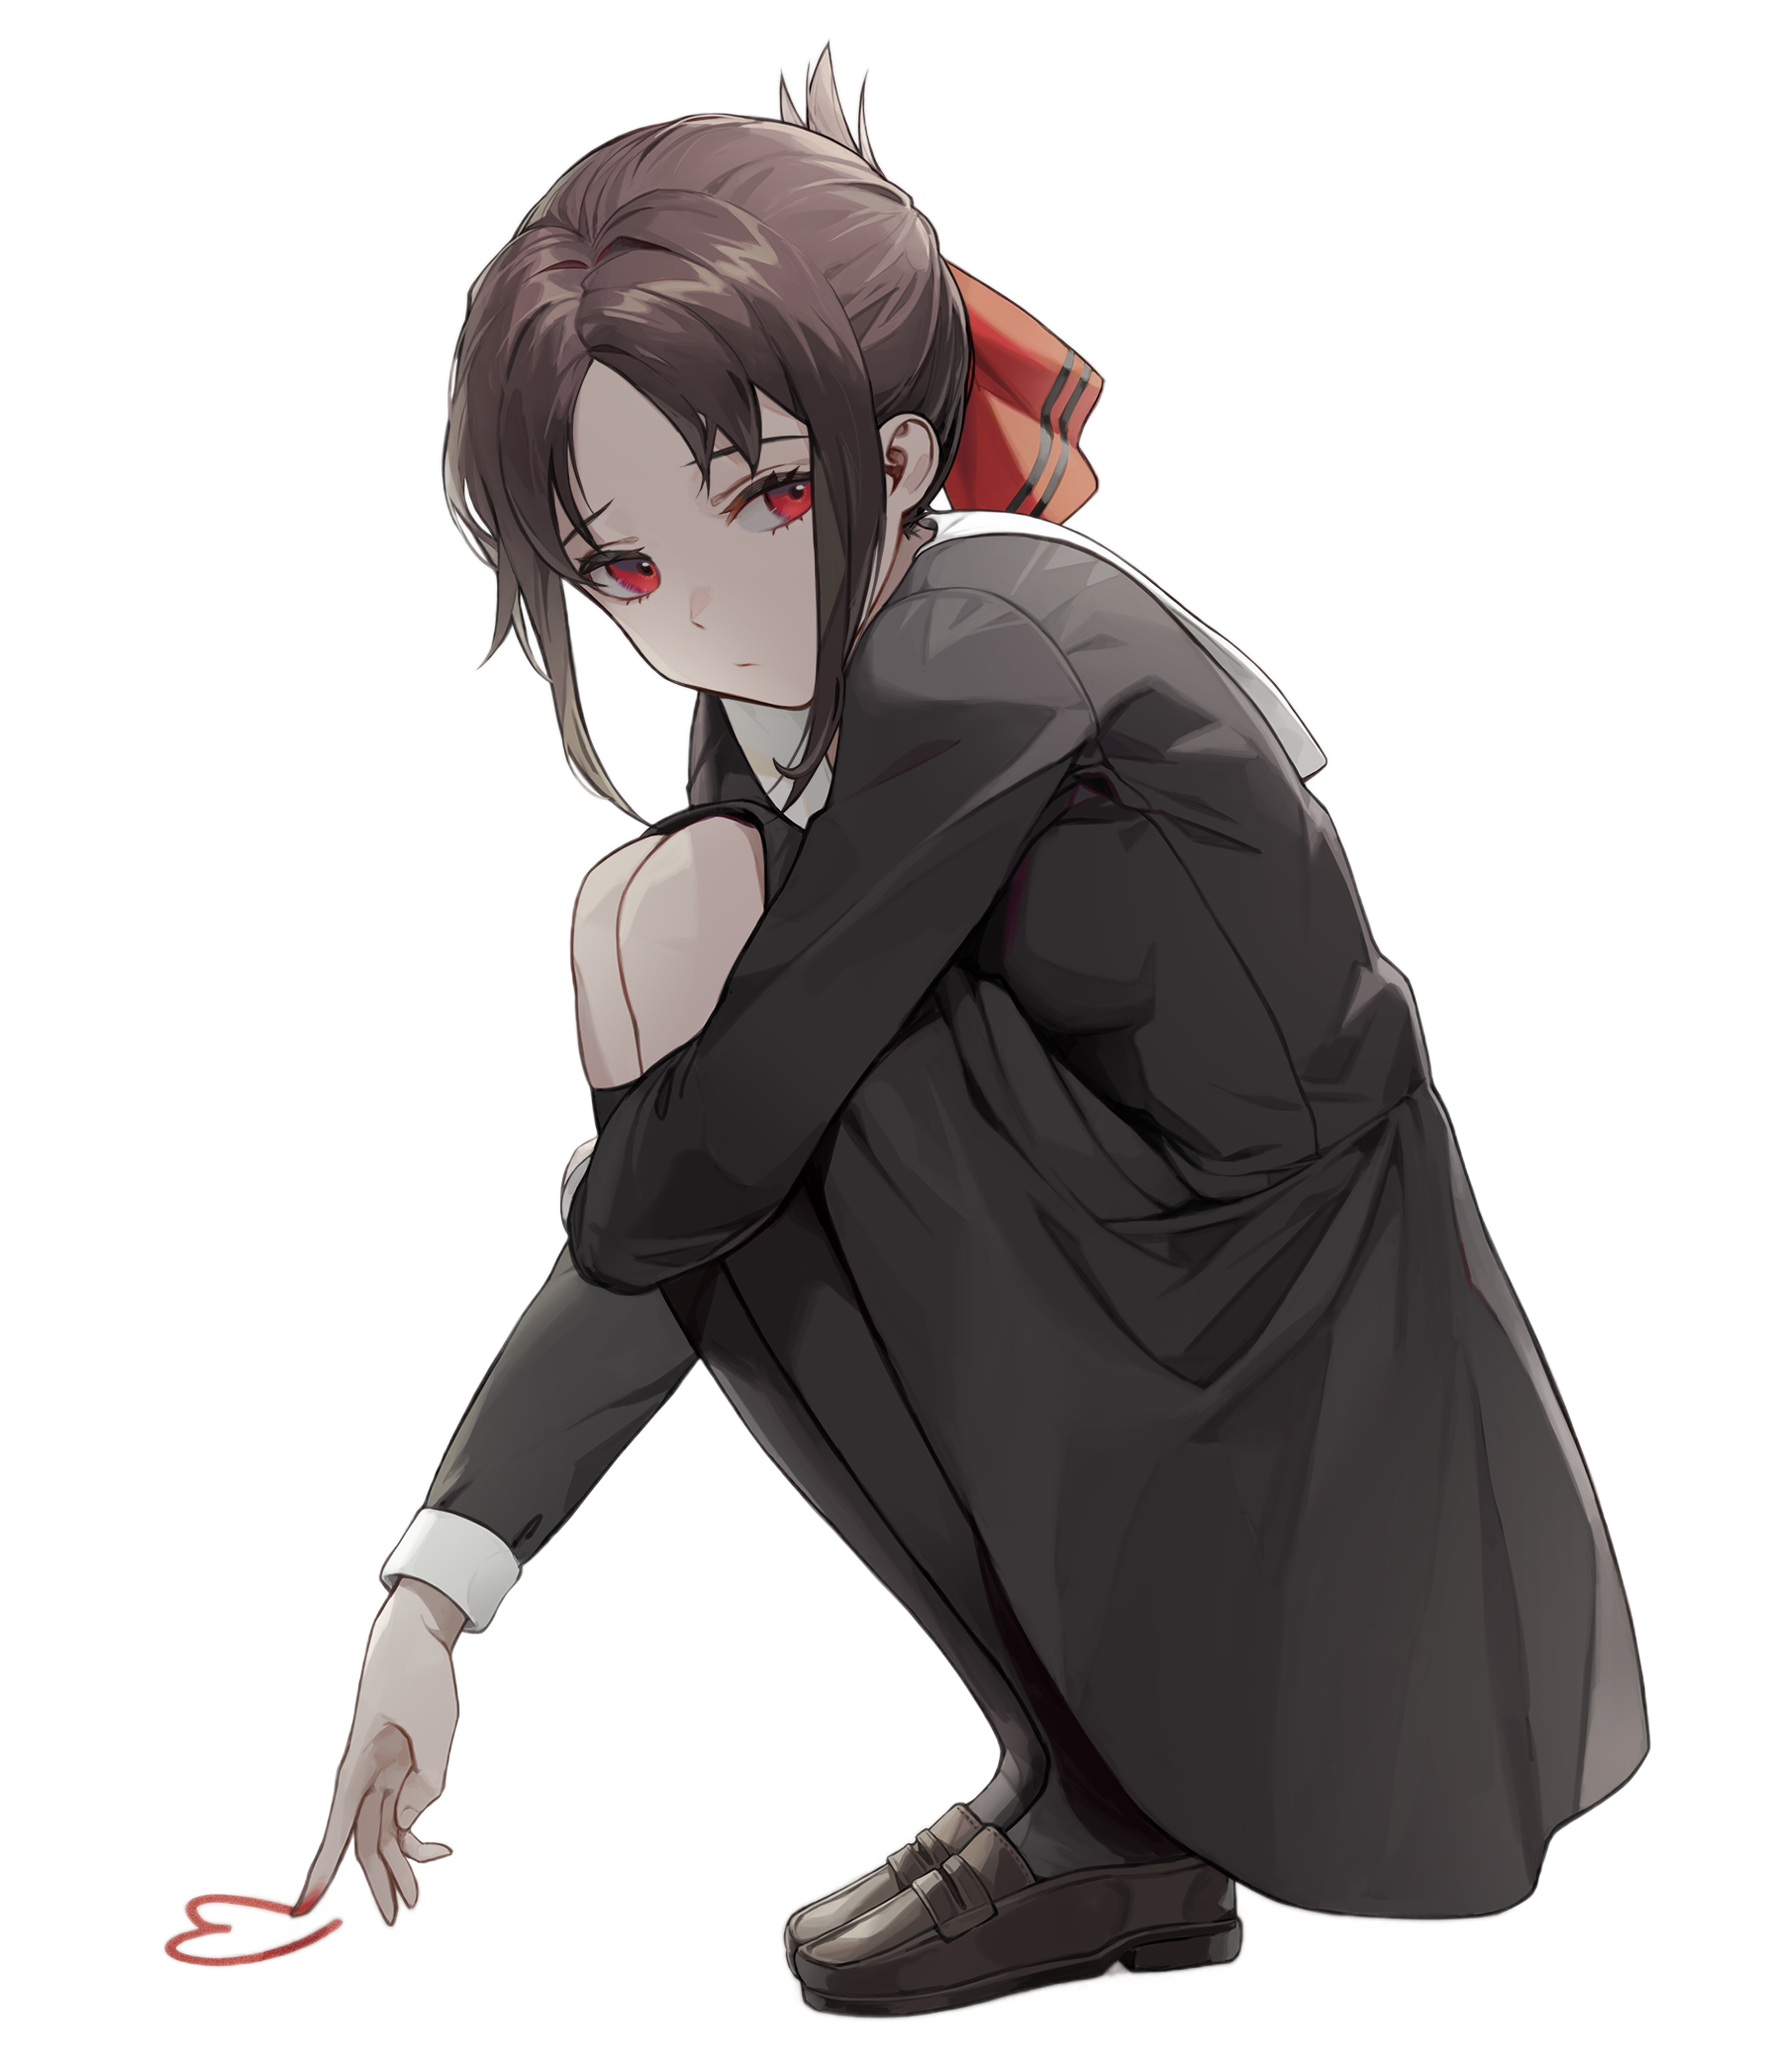
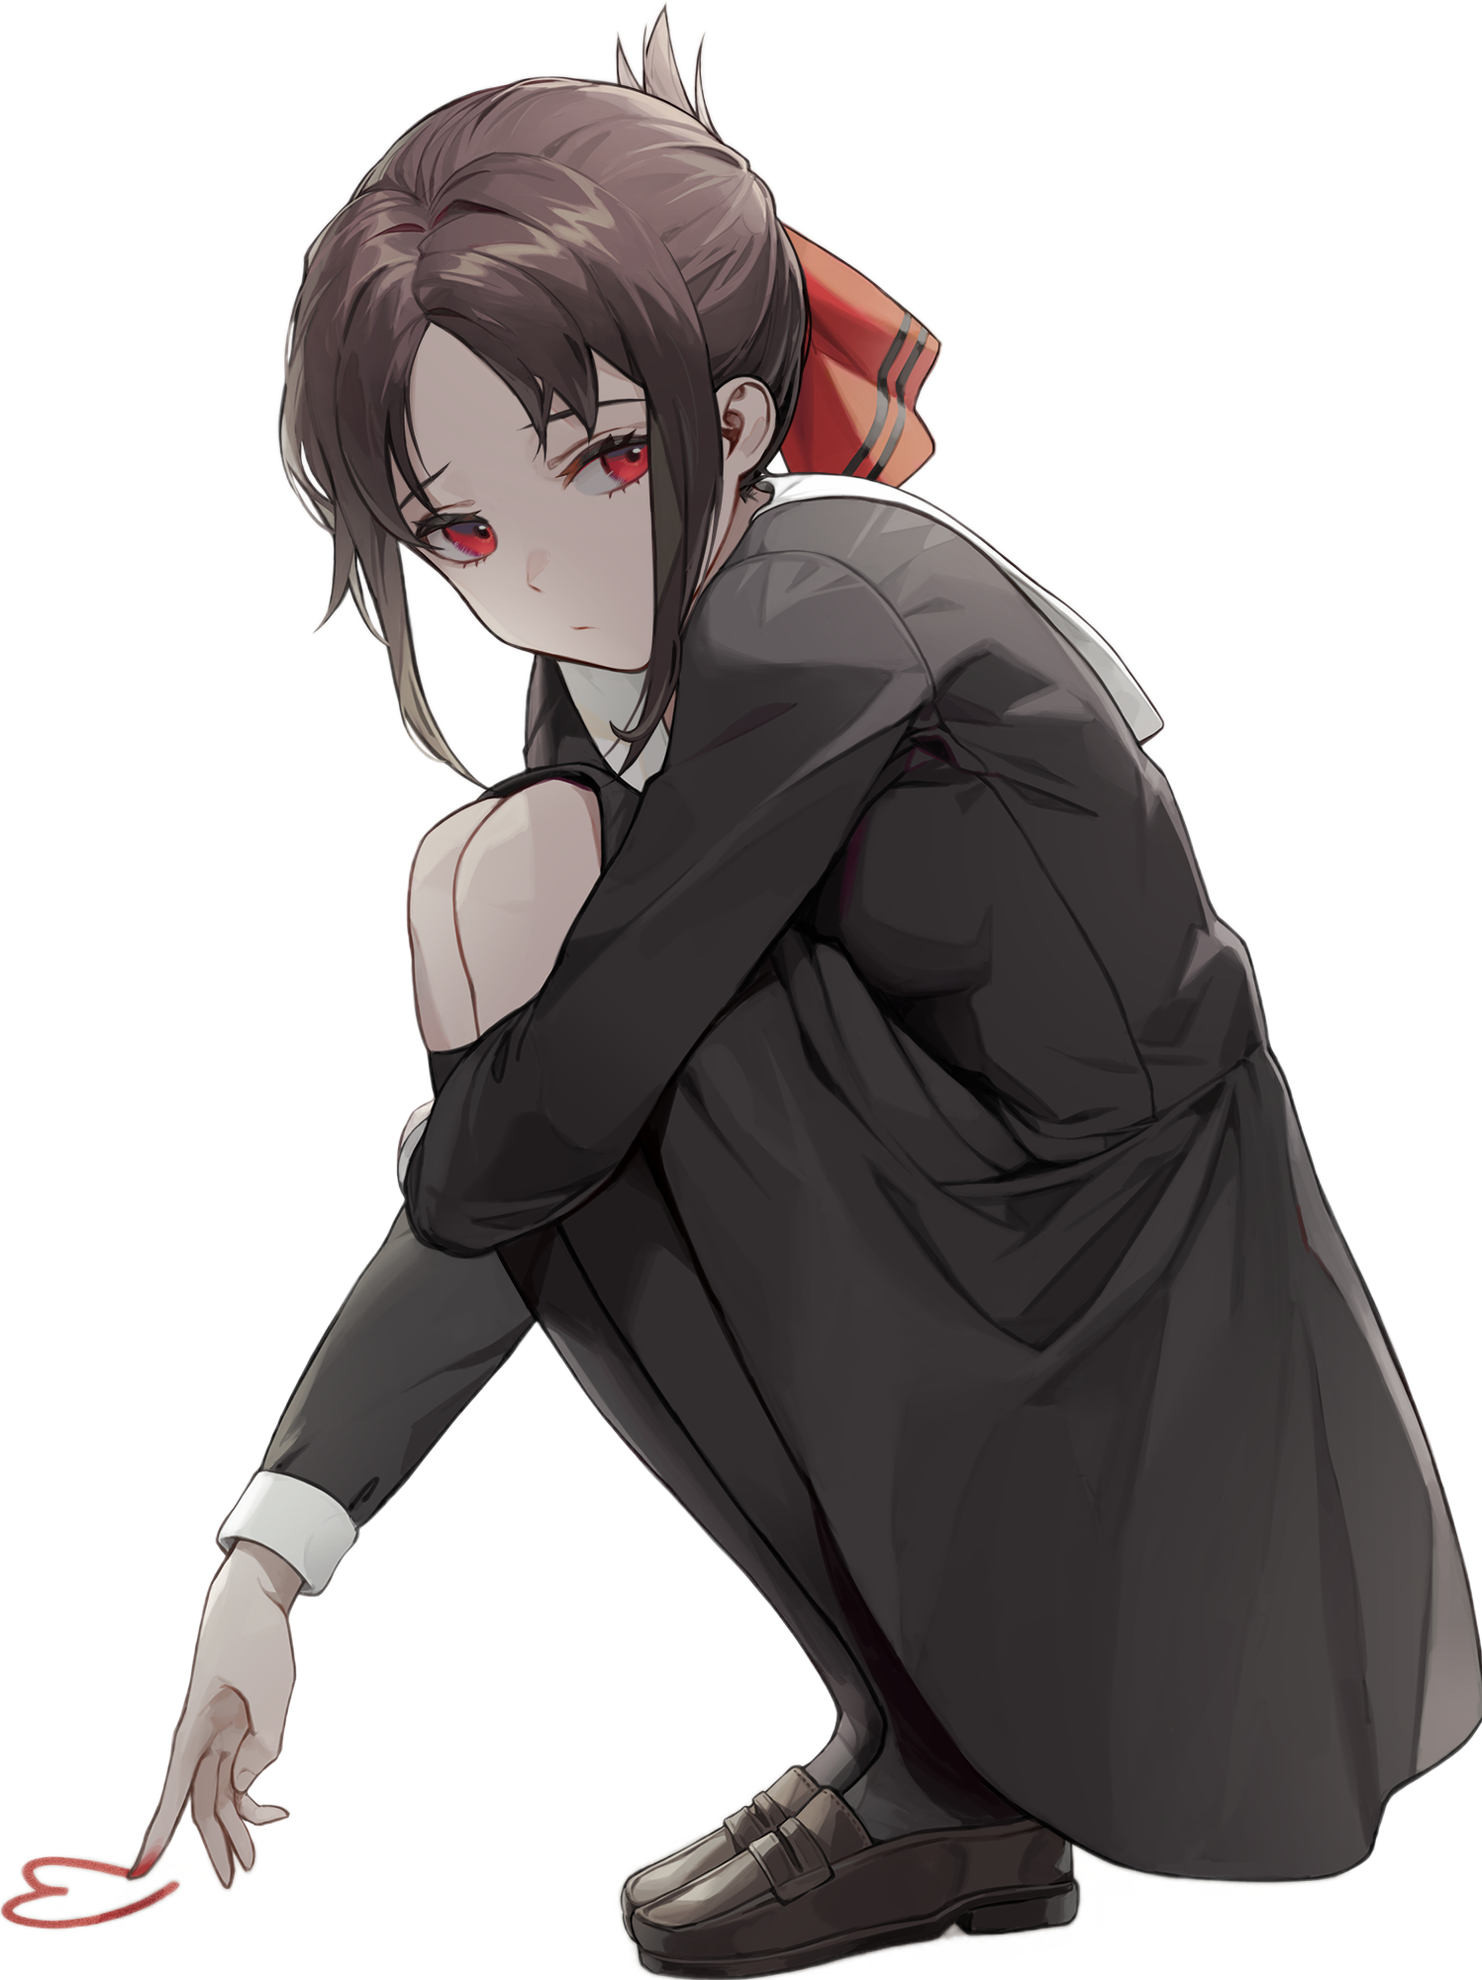
Ajusando el cover

Changed region(s): [[0.0, 0.0, 1.0, 1.0], [0.6146, 0.5267, 0.7375, 0.6507], [0.5531, 0.5267, 0.5838, 0.5577]]

diff --git a/src/components/Homepage.jsx b/src/components/Homepage.jsx
@@ -3,34 +3,38 @@ import { TabComponent } from "./TabComponent";
 import { ContentComp } from "./ContentComp";
 import { useState } from "react";
 export const Homepage = () => {
-
   return (
-    <div>
-      
-      <div
-        style={{
-          display: "flex",
-          justifyContent: "center",
-          gap: "15px",
-          marginTop: "20px",
+    <div style={{display: 'flex', justifyContent:'start', width: "100%"}}>
+          <div style={{display: 'flex', flexDirection:'column', width: '50%'}}>
+                 
+                <div style={{display: 'flex'}}>
+                <ColiderComp>
+                  <TabComponent ></TabComponent>
+                  </ColiderComp>
+                  <ColiderComp>
+                  <TabComponent ></TabComponent>
+                  </ColiderComp>
+                  <ColiderComp>
+                  <TabComponent ></TabComponent>
+                  </ColiderComp>
+                </div>
+                <div style={{display: 'flex'}}>
+                <ColiderComp>
+                  <TabComponent ></TabComponent>
+                  </ColiderComp>
 
-        }}
-      >
+                  <ColiderComp>
+                  <TabComponent ></TabComponent>
+                  </ColiderComp>
 
-        <ColiderComp>
-         <TabComponent ></TabComponent>
-        </ColiderComp>
-     
-       
-       
-  
-    
-
-      </div>
-  
-      
+                  <ColiderComp>
+                  <TabComponent ></TabComponent>
+                  </ColiderComp>
+                </div>
+              
+              </div>
+        <img className="Cover" src=".\src\assets\example2.png" alt="" />
     </div>
+   
   );
 };
-
-

diff --git a/src/App.scss b/src/App.scss
@@ -21,12 +21,12 @@ body {
   // background-image: url(https://i.pinimg.com/236x/02/07/52/020752b6ee136d98acb542c54bd083f7.jpg);
   // background-size: auto;
   background: #000000;
+
 }
 
 .App {
   background: #322e30;
-  width: inherit;
-  height: 100vh;
+  height: 250vh;
   margin: 0.6%;
   border-radius: 10px;
 }
@@ -98,6 +98,7 @@ body {
 
   border-radius: 15px;
   transition: background-color 1s;
+  border: 1px solid rgb(225, 0, 255);
   &:hover{
 
    background-color: #0e0d0d17;
@@ -168,13 +169,14 @@ body {
       flex-direction: column;
       justify-content: start;
       align-items: center;
-      opacity: 0.5;
+
       width: 100%;
       height: 100%;
       scrollbar-color: #f4f4f4 transparent;
       scrollbar-width: thin;
 
       overflow-y: auto;
+      margin-bottom: 8%;
  
   
       .resize-handler {
@@ -213,15 +215,49 @@ body {
 
 
 
+
   .image{
     object-fit: cover;
     width: 95%;
     height: 95%;
     border-radius: 15px;
     margin-bottom: 5%;
+
   }
   p{
     margin: 30px;
   }
 
 }
+
+.readMore{
+
+  background: transparent;
+ 
+
+  transition: all 1s;
+  height: 20%;
+
+  width: 100%;
+  position: absolute;
+  border: none;
+  bottom: 0;
+
+  &:hover{
+
+    font-size: 15px;
+  }
+
+}
+
+.Cover{
+  border: 1px solid red;
+  width: 60%;
+  right: -10%;
+ position: absolute;
+  margin-top: 10%;
+
+
+
+ }
+

diff --git a/src/components/TabComponent.jsx b/src/components/TabComponent.jsx
@@ -58,11 +58,11 @@ export function TabComponent({
     <div className="resizable-box" style={{ width: `${width}px` }}>
       <div className="tabConteiner">
         <div className="tabName"></div>
-        <div className="tabContent"  onClick={()=>{setShow(!show)}}>
+        <div className="tabContent"  >
           <div className="resize-handler left" onMouseDown={startResize} />
 
           <ContentComp show={show} />
-
+          <button  style= {{ background :  `linear-gradient(0deg,  #950017 ${show?"10%":"30%"}, rgba(0,0,0,0) 100%)`}}className="readMore" onClick={()=>{setShow(!show)}}>  {show? "Ver menos": "Ver mas"}</button>
           <div className="resize-handler right" onMouseDown={startResize} />
         </div>
       </div>

diff --git a/src/components/ContentComp.jsx b/src/components/ContentComp.jsx
@@ -46,6 +46,12 @@ export function ContentComp({ show }) {
     </p>
 
     <img className="image" src="https://i.pinimg.com/originals/ce/fa/bc/cefabc6aa7bd28cccd0713e4a3656cc9.jpg" alt="" />
+
+    <p>
+      Lorem, ipsum dolor sit amet consectetur adipisicing elit. Nobis,
+      ipsam velit sint pariatur quidem doloremque, iste icum ducimus
+      laboriosam.
+    </p>
     
   </div>;
 }

diff --git a/src/App.jsx b/src/App.jsx
@@ -8,7 +8,7 @@ import { useState } from "react";
 function App() {
 useState(0)
   return (
-    <div className="App">
+    <div className="App" >
       <Header></Header>
       <Routes>
         <Route path="/" exact element={<Homepage />} />
